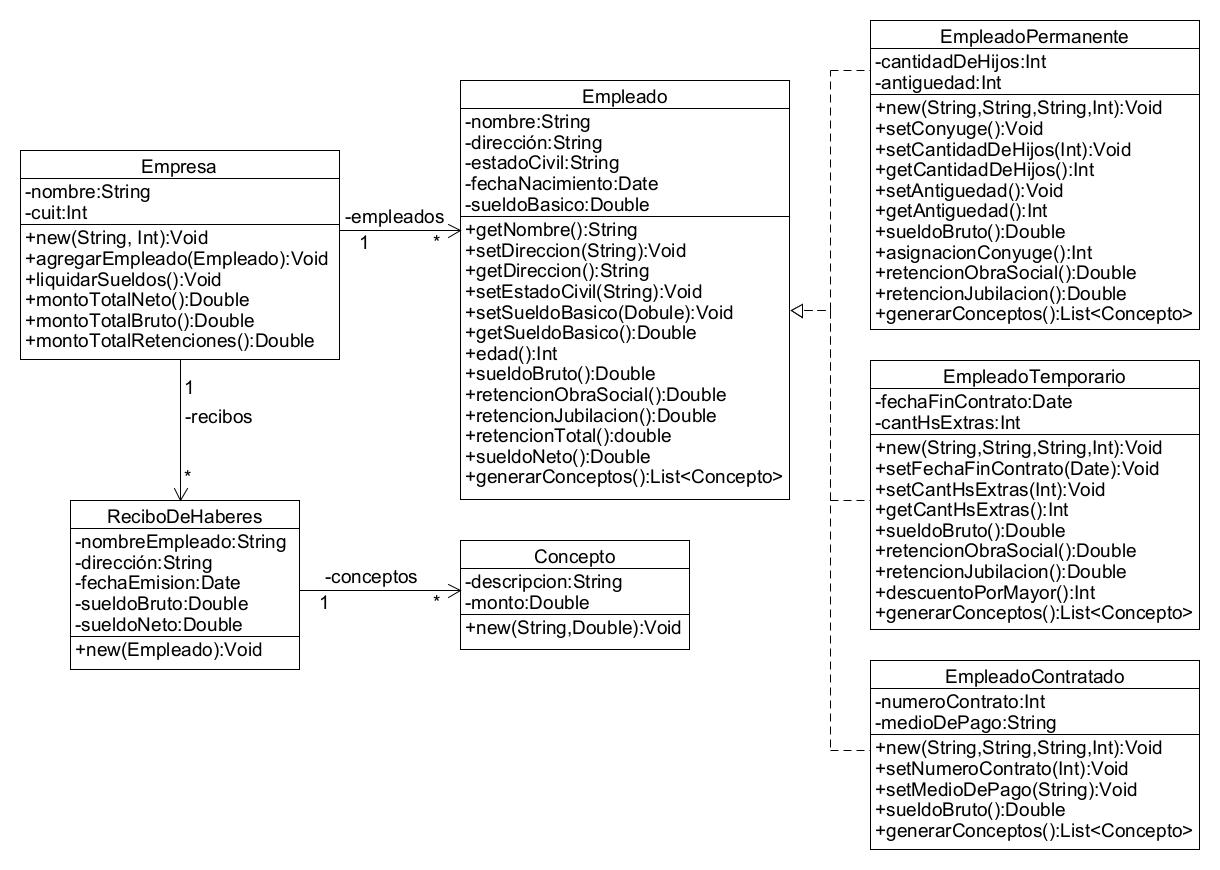
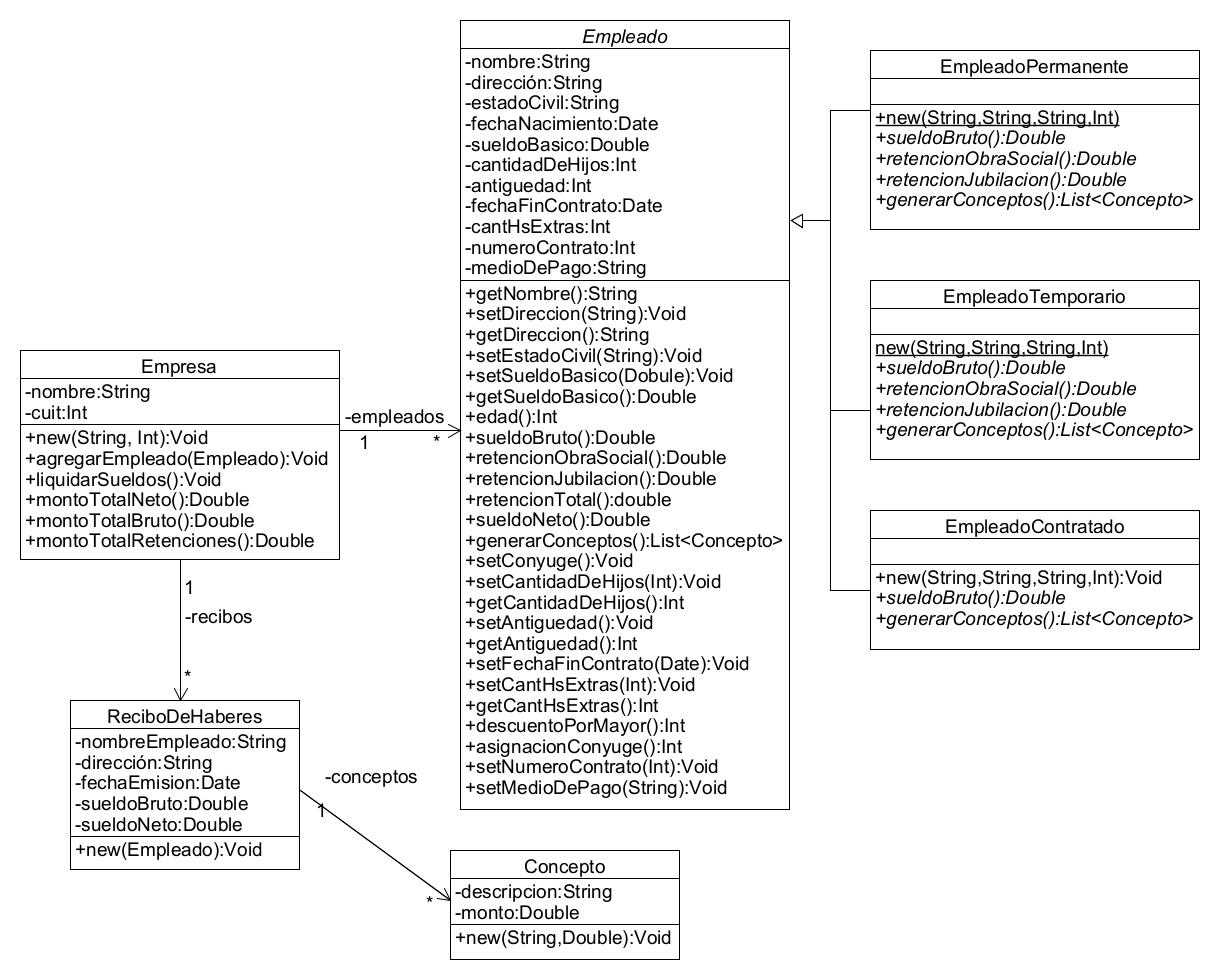
Se arreglan los UML del TP2

diff --git a/src/ar/edu/unq/po2/tp2/Empleado.java b/src/ar/edu/unq/po2/tp2/Empleado.java
@@ -63,6 +63,6 @@ public abstract class Empleado {
 	}
 
 	abstract int retencionConstante();
-	
+	//esto deberia hacerlo otra clase por fuera de Empleado, ya que no es responsabilidad suya
 	abstract List<Concepto> generarConceptos();
 }

diff --git a/src/ar/edu/unq/po2/tp2/Empresa.java b/src/ar/edu/unq/po2/tp2/Empresa.java
@@ -4,8 +4,6 @@ import java.util.ArrayList;
 
 import java.util.List;
 
-import ar.edu.unq.po2.Ejercicio3Trabajador.Ingreso;
-
 public class Empresa {
 	
 	String nombre;
